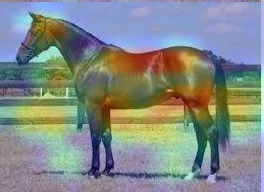
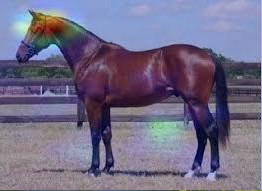
Actualizacion resultados CBAM

diff --git a/README.md b/README.md
@@ -20,6 +20,8 @@ Validación del Heatmap de las 3 arquitecturas:
 
 <p align="center">
 <img src="img/heatmap.png"/> 
+<img src="img/heatmap2.png"/> 
+<img src="img/heatmap3.png"/> 
 </P>
 
 Validación de Loss de los modelos:
@@ -69,7 +71,7 @@ A continuación se muestra la validación de las arquitecturas en 3 diferentes i
     <img src="img/pajaro2_RN50CBAM.png" alt="" style="height: 200px; width:300px;"/> 
     <img src="img/rana1.jpg" alt="" style="height: 200px; width:300px;"/>
     <img src="img/rana1_RN50CBAM.png" alt="" style="height: 200px; width:300px;"/>  
-    </P>
+    </P> 
 
 ## **Links alternos al repositorio:** ##
 * [Repositorio Google Drive Tarea](https://drive.google.com/file/d/1aar-eZAy8nYX8TlmvjE2uV6RvF6J5Eyz/view?usp=drive_web&authuser=0)
